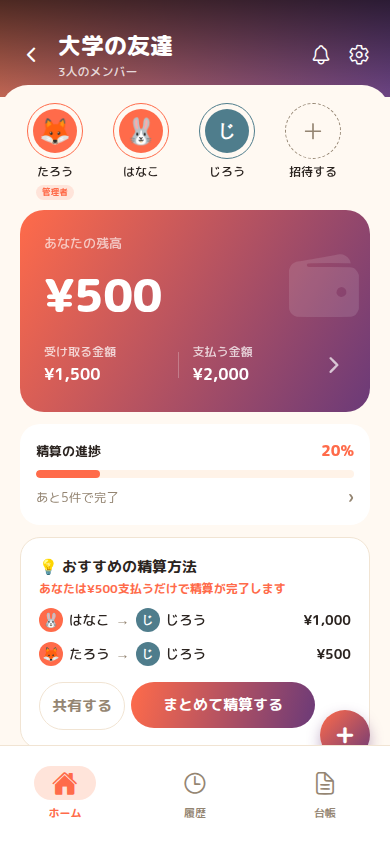
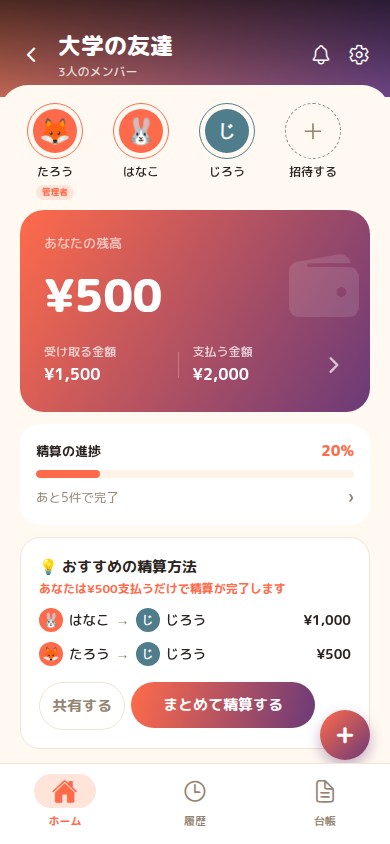
kashikari: 下部タブバーの高さの仕組みを見直す
「下部タブのアイコンと名前をまだ下げて。あと下部タブの上線も＋が
見えるくらいまで下げて」という指摘への対応。スキーマ変更なし。

これまで3回にわたってpaddingTopを8→14→20と増やし続けても「まだ
下がってない」という指摘が続いていた根本原因が判明した。
BottomTabBarのwrapはbottom:0で画面下端に固定されているため、
paddingTopを増やすとバー自体の高さ(=上端の位置)が上に伸びるだけで、
中のアイコン・ラベルの画面上の位置は変わらない。アイコン・ラベルの
実際の位置を動かしていたのは(意図せず)paddingBottomの方だった。
さらにバーが伸び続けた結果、バー上端の罫線が右下の＋ボタン(FAB)と
重なって隠れてしまっていた。

原因を踏まえて修正の向きを逆にした: paddingBottomを22→14に減らして
アイコン・ラベルを実際に下へ動かし、paddingTopも20→10に戻して
バー自体の高さを縮め、上端の罫線をFABの下まで下げた。

BottomTabBar.tsxを変更。tsc --noEmit / expo export --platform web
(通常+デモモード)とも問題なし。Playwrightで＋ボタンがバーに
隠れず見えていることを確認済み。

Claude-Session: https://claude.ai/code/session_016w6H5fipiVvbtfX7sgu87W

Changed region(s): [[0.8, 0.8626, 0.9538, 0.9858], [0.0923, 0.8934, 0.2462, 0.9858], [0.4615, 0.8934, 0.5231, 0.9858]]

diff --git a/personal-side-projects/kashikari/mobile/src/components/BottomTabBar.tsx b/personal-side-projects/kashikari/mobile/src/components/BottomTabBar.tsx
@@ -45,10 +45,19 @@ export default function BottomTabBar({ tab, onChange }: Props) {
 }
 
 const styles = StyleSheet.create({
-  // 「アイコン・名前を、バーの枠とともに下に下げて。枠が大きいから
-  // 下げて」という指摘を受け、paddingTopを14→20にさらに増やして
-  // アイコン+ラベルの行を下に寄せつつ、paddingBottomを26→22に
-  // 減らしてバー全体の余分な高さ(=「枠が大きい」)も少し詰めた。
+  // 【重要な気づき】wrapはbottom:0で画面下端に固定されているため、
+  // paddingTopを増やしても「バーの高さ(=上端の位置)」が上に伸びる
+  // だけで、中のアイコン・ラベル自体の画面上の位置は変わらない
+  // (btnはalignItems:'center'で横方向は揃えるが、中身はデフォルトで
+  // 上詰めのため、アイコン・ラベルの実際の位置はpaddingBottom側で
+  // 決まる)。そのため前回までpaddingTopを8→14→20と増やし続けても
+  // 「まだ下がってない」という指摘が続き、むしろバーの上端(罫線)が
+  // 上に伸びて＋ボタン(FAB)と重なってしまっていた。
+  // 今回「アイコンと名前をまだ下げて」「上線も＋が見えるくらいまで
+  // 下げて」という指摘を受け、根本原因を踏まえて逆方向に修正:
+  // paddingBottomを22→14に減らしてアイコン・ラベルを実際に下へ
+  // 動かし、paddingTopも20→10に戻してバー自体の高さを縮め、上端の
+  // 罫線をFABの下まで下げた。
   wrap: {
     position: 'absolute',
     left: 0,
@@ -58,8 +67,8 @@ const styles = StyleSheet.create({
     backgroundColor: colors.surface,
     borderTopWidth: 1,
     borderTopColor: colors.line,
-    paddingTop: 20,
-    paddingBottom: 22,
+    paddingTop: 10,
+    paddingBottom: 14,
   },
   btn: { flex: 1, alignItems: 'center', gap: 5 },
   iconWrap: { paddingHorizontal: 18, paddingVertical: 3, borderRadius: 999 },
